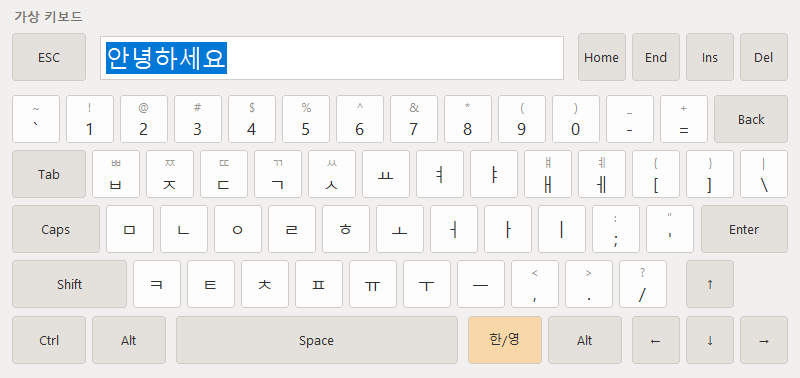
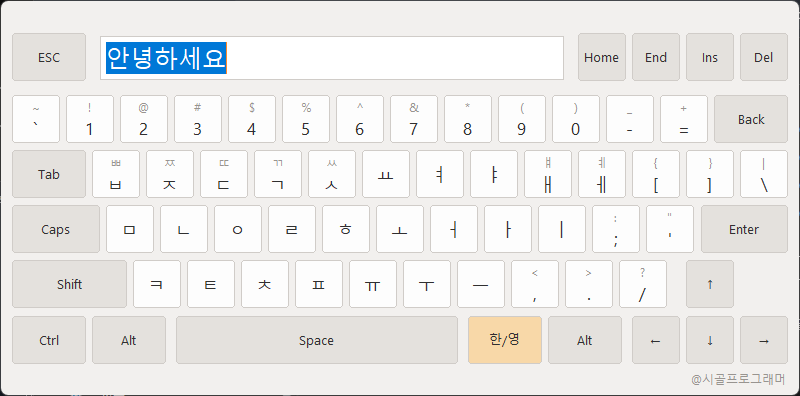
v1.1: 제목 제거·둥근 모서리·크레딧 라벨·클릭 사운드 옵션
- 키보드 창 좌측 상단 제목 표시와 Title/TitleTextColor 프로퍼티 제거
  (DLL 의 title 인자는 ABI 호환용 예약 인자로 유지)
- 키보드 창 둥근 모서리 처리 (Windows 11 DWM, 이하 버전은 영역 폴백)
- 우하단 @시골프로그래머 크레딧 라벨 추가 — 클릭 시 GitHub 저장소로 이동
- ClickSound 프로퍼티와 DLL VKB_SetClickSound 추가 (클릭음 내부 합성 — 리소스 불필요)
- 데모(델파이/C#/Python/C) v1.1 API 반영, 클릭 사운드 체크박스 추가
- 스크린샷 교체, README/DllGuide 갱신, DLL·데모 재빌드

diff --git a/demos/c/vkeyboard_demo.c b/demos/c/vkeyboard_demo.c
@@ -21,9 +21,11 @@ typedef int(__stdcall *PVKB_Show)(
     int bufferSize,         // 버퍼 용량 (문자 수, 널 종단 포함)
     int language,           // 0=영문, 1=한글
     int left, int top,      // 둘 다 -1 이면 화면 중앙 (화면 픽셀)
-    int width, int height,  // 96DPI 기준 논리값, 0 이하 = 기본 800×378
-    const wchar_t *title,   // NULL = 기본 제목
+    int width, int height,  // 96DPI 기준 논리값, 0 이하 = 기본 800×396
+    const wchar_t *title,   // 예약 인자 (무시됨, ABI 호환용) — NULL 권장
     wchar_t passwordChar);  // L'\0' = 일반 표시
+
+typedef void(__stdcall *PVKB_SetClickSound)(int enabled);   // 키 클릭음 (0=끔 기본, v1.1+)
 
 typedef int(__stdcall *PVKB_Version)(void);
 
@@ -50,12 +52,19 @@ int wmain(void)
     int version = vkbVersion();
     wprintf(L"sc_vkeyboard.dll v%d.%d\n", version >> 8, version & 0xFF);
 
+    // 키 클릭음 켬 (v1.1+ — 구버전 DLL 은 export 가 없을 수 있으므로 NULL 확인)
+    PVKB_SetClickSound vkbSetClickSound = (PVKB_SetClickSound)GetProcAddress(lib, "VKB_SetClickSound");
+    if (vkbSetClickSound != NULL)
+    {
+        vkbSetClickSound(1);
+    }
+
     wchar_t buffer[1024] = L"안녕하세요";
     int ret = vkbShow(buffer, 1024,
                       VKB_LANG_KOREAN,
                       -1, -1,     // 화면 중앙
-                      0, 0,       // 기본 크기 (800×378)
-                      L"가상 키보드 (C 데모)",
+                      0, 0,       // 기본 크기 (800×396)
+                      NULL,       // 예약 인자 (무시됨)
                       L'\0');     // 일반 표시
 
     switch (ret)

diff --git a/demos/csharp/Program.cs b/demos/csharp/Program.cs
@@ -21,14 +21,18 @@ internal static class VirtualKeyboard
     /// <param name="left">창 좌측 좌표 (화면 픽셀). left/top 모두 -1 이면 화면 중앙</param>
     /// <param name="top">창 상단 좌표 (화면 픽셀)</param>
     /// <param name="width">키보드 폭 (96DPI 기준 논리값). 0 이하면 기본 800</param>
-    /// <param name="height">키보드 높이 (96DPI 기준 논리값). 0 이하면 기본 378</param>
-    /// <param name="title">창 제목. null 이면 기본 제목</param>
+    /// <param name="height">키보드 높이 (96DPI 기준 논리값). 0 이하면 기본 396</param>
+    /// <param name="title">예약 인자 (무시됨, ABI 호환용). null 권장</param>
     /// <param name="passwordChar">암호 표시 문자. '\0' 이면 일반 표시</param>
     [DllImport("sc_vkeyboard.dll", CharSet = CharSet.Unicode)]
     public static extern int VKB_Show(
         StringBuilder buffer, int bufferSize,
         int language, int left, int top, int width, int height,
         string? title, char passwordChar);
+
+    /// <summary>키 클릭음 재생 여부 설정 (0=끔 기본). 이후의 VKB_Show 호출부터 적용 (v1.1+).</summary>
+    [DllImport("sc_vkeyboard.dll")]
+    public static extern void VKB_SetClickSound(int enabled);
 
     /// <summary>DLL 버전 (상위 바이트 = 메이저, 하위 바이트 = 마이너).</summary>
     [DllImport("sc_vkeyboard.dll")]
@@ -42,6 +46,8 @@ internal static class Program
         Console.OutputEncoding = Encoding.UTF8;
         Console.WriteLine($"sc_vkeyboard.dll v{VirtualKeyboard.VKB_Version() >> 8}.{VirtualKeyboard.VKB_Version() & 0xFF}");
 
+        VirtualKeyboard.VKB_SetClickSound(1);   // 키 클릭음 켬 (v1.1+)
+
         var buffer = new StringBuilder(1024);
         buffer.Append("안녕하세요");
 
@@ -49,8 +55,8 @@ internal static class Program
             buffer, buffer.Capacity,
             VirtualKeyboard.LangKorean,
             left: -1, top: -1,        // 화면 중앙
-            width: 0, height: 0,      // 기본 크기 (800×378)
-            title: "가상 키보드 (C# 데모)",
+            width: 0, height: 0,      // 기본 크기 (800×396)
+            title: null,              // 예약 인자 (무시됨)
             passwordChar: '\0');
 
         switch (ret)

diff --git a/demos/python/vkeyboard_demo.py b/demos/python/vkeyboard_demo.py
@@ -25,6 +25,8 @@ def main() -> None:
     version = vkb.VKB_Version()
     print(f"sc_vkeyboard.dll v{version >> 8}.{version & 0xFF}")
 
+    vkb.VKB_SetClickSound(1)  # 키 클릭음 켬 (v1.1+)
+
     # 입출력 버퍼: 호출 시 초기 텍스트, 확정 시 입력 결과
     buffer = ctypes.create_unicode_buffer("안녕하세요", 1024)
 
@@ -32,8 +34,8 @@ def main() -> None:
         buffer, 1024,
         VKB_LANG_KOREAN,
         -1, -1,          # 화면 중앙
-        0, 0,            # 기본 크기 (800×378)
-        "가상 키보드 (Python 데모)",
+        0, 0,            # 기본 크기 (800×396)
+        None,            # 예약 인자 (무시됨)
         ord("\0"),       # 일반 표시
     )
 

diff --git a/doc/DllGuide.md b/doc/DllGuide.md
@@ -37,13 +37,20 @@ int __stdcall VKB_Show(
     int      left,          // 창 좌측 (화면 픽셀). left/top 모두 -1 = 화면 중앙
     int      top,           // 창 상단 (화면 픽셀)
     int      width,         // 키보드 폭 (96DPI 논리값). 0 이하 = 기본 800
-    int      height,        // 키보드 높이 (96DPI 논리값). 0 이하 = 기본 378
-    const wchar_t* title,   // 창 제목. NULL = 기본 제목
+    int      height,        // 키보드 높이 (96DPI 논리값). 0 이하 = 기본 396
+    const wchar_t* title,   // 예약 인자 (무시됨, ABI 호환용 유지). NULL 권장
     wchar_t  passwordChar); // 암호 표시 문자. L'\0' = 일반 표시
 
-// DLL 버전. 상위 바이트 = 메이저, 하위 바이트 = 마이너 (0x0100 = v1.0)
+// 키 클릭음 재생 여부 설정 (0=끔 기본, 그 외=켬). 이후의 VKB_Show 호출부터 적용.
+// 클릭음은 DLL 내부에서 합성하므로 별도 사운드 파일이 필요 없다. (v1.1+)
+void __stdcall VKB_SetClickSound(int enabled);
+
+// DLL 버전. 상위 바이트 = 메이저, 하위 바이트 = 마이너 (0x0101 = v1.1)
 int __stdcall VKB_Version(void);
 ```
+
+> v1.1 변경: 키보드 창의 제목 표시가 제거되어 `title` 은 예약 인자가 되었습니다
+> (기존 호출 코드는 수정 없이 동작). `VKB_SetClickSound` 가 추가되었습니다.
 
 ## 언어별 예제
 
@@ -61,7 +68,7 @@ int main(void)
     PVKB_Show VKB_Show = (PVKB_Show)GetProcAddress(lib, "VKB_Show");
 
     wchar_t buffer[1024] = L"안녕하세요";
-    if (VKB_Show(buffer, 1024, 1, -1, -1, 0, 0, L"가상 키보드 (C)", L'\0') == 1)
+    if (VKB_Show(buffer, 1024, 1, -1, -1, 0, 0, NULL, L'\0') == 1)
     {
         wprintf(L"입력 결과: %s\n", buffer);
     }
@@ -83,7 +90,7 @@ static extern int VKB_Show(StringBuilder buffer, int bufferSize,
     string? title, char passwordChar);
 
 var buffer = new StringBuilder("안녕하세요", 1024);
-if (VKB_Show(buffer, buffer.Capacity, 1, -1, -1, 0, 0, "가상 키보드", '\0') == 1)
+if (VKB_Show(buffer, buffer.Capacity, 1, -1, -1, 0, 0, null, '\0') == 1)
 {
     Console.WriteLine($"입력 결과: {buffer}");
 }
@@ -97,7 +104,7 @@ import ctypes
 vkb = ctypes.WinDLL("sc_vkeyboard.dll")   # WinDLL = stdcall (x86 에서 중요)
 
 buffer = ctypes.create_unicode_buffer("안녕하세요", 1024)
-ret = vkb.VKB_Show(buffer, 1024, 1, -1, -1, 0, 0, "가상 키보드 (Python)", ord("\0"))
+ret = vkb.VKB_Show(buffer, 1024, 1, -1, -1, 0, 0, None, ord("\0"))
 
 if ret == 1:
     print("입력 결과:", buffer.value)
@@ -113,7 +120,7 @@ var LBuffer: array[0..1023] of WideChar;
 StrPLCopy(@LBuffer[0], '안녕하세요', High(LBuffer));
 
 if VKB_Show(@LBuffer[0], Length(LBuffer), VKB_LANG_KOREAN,
-  -1, -1, 0, 0, '가상 키보드', #0) = VKB_CONFIRMED then
+  -1, -1, 0, 0, nil, #0) = VKB_CONFIRMED then
 begin
   ShowMessage(PWideChar(@LBuffer[0]));
 end;